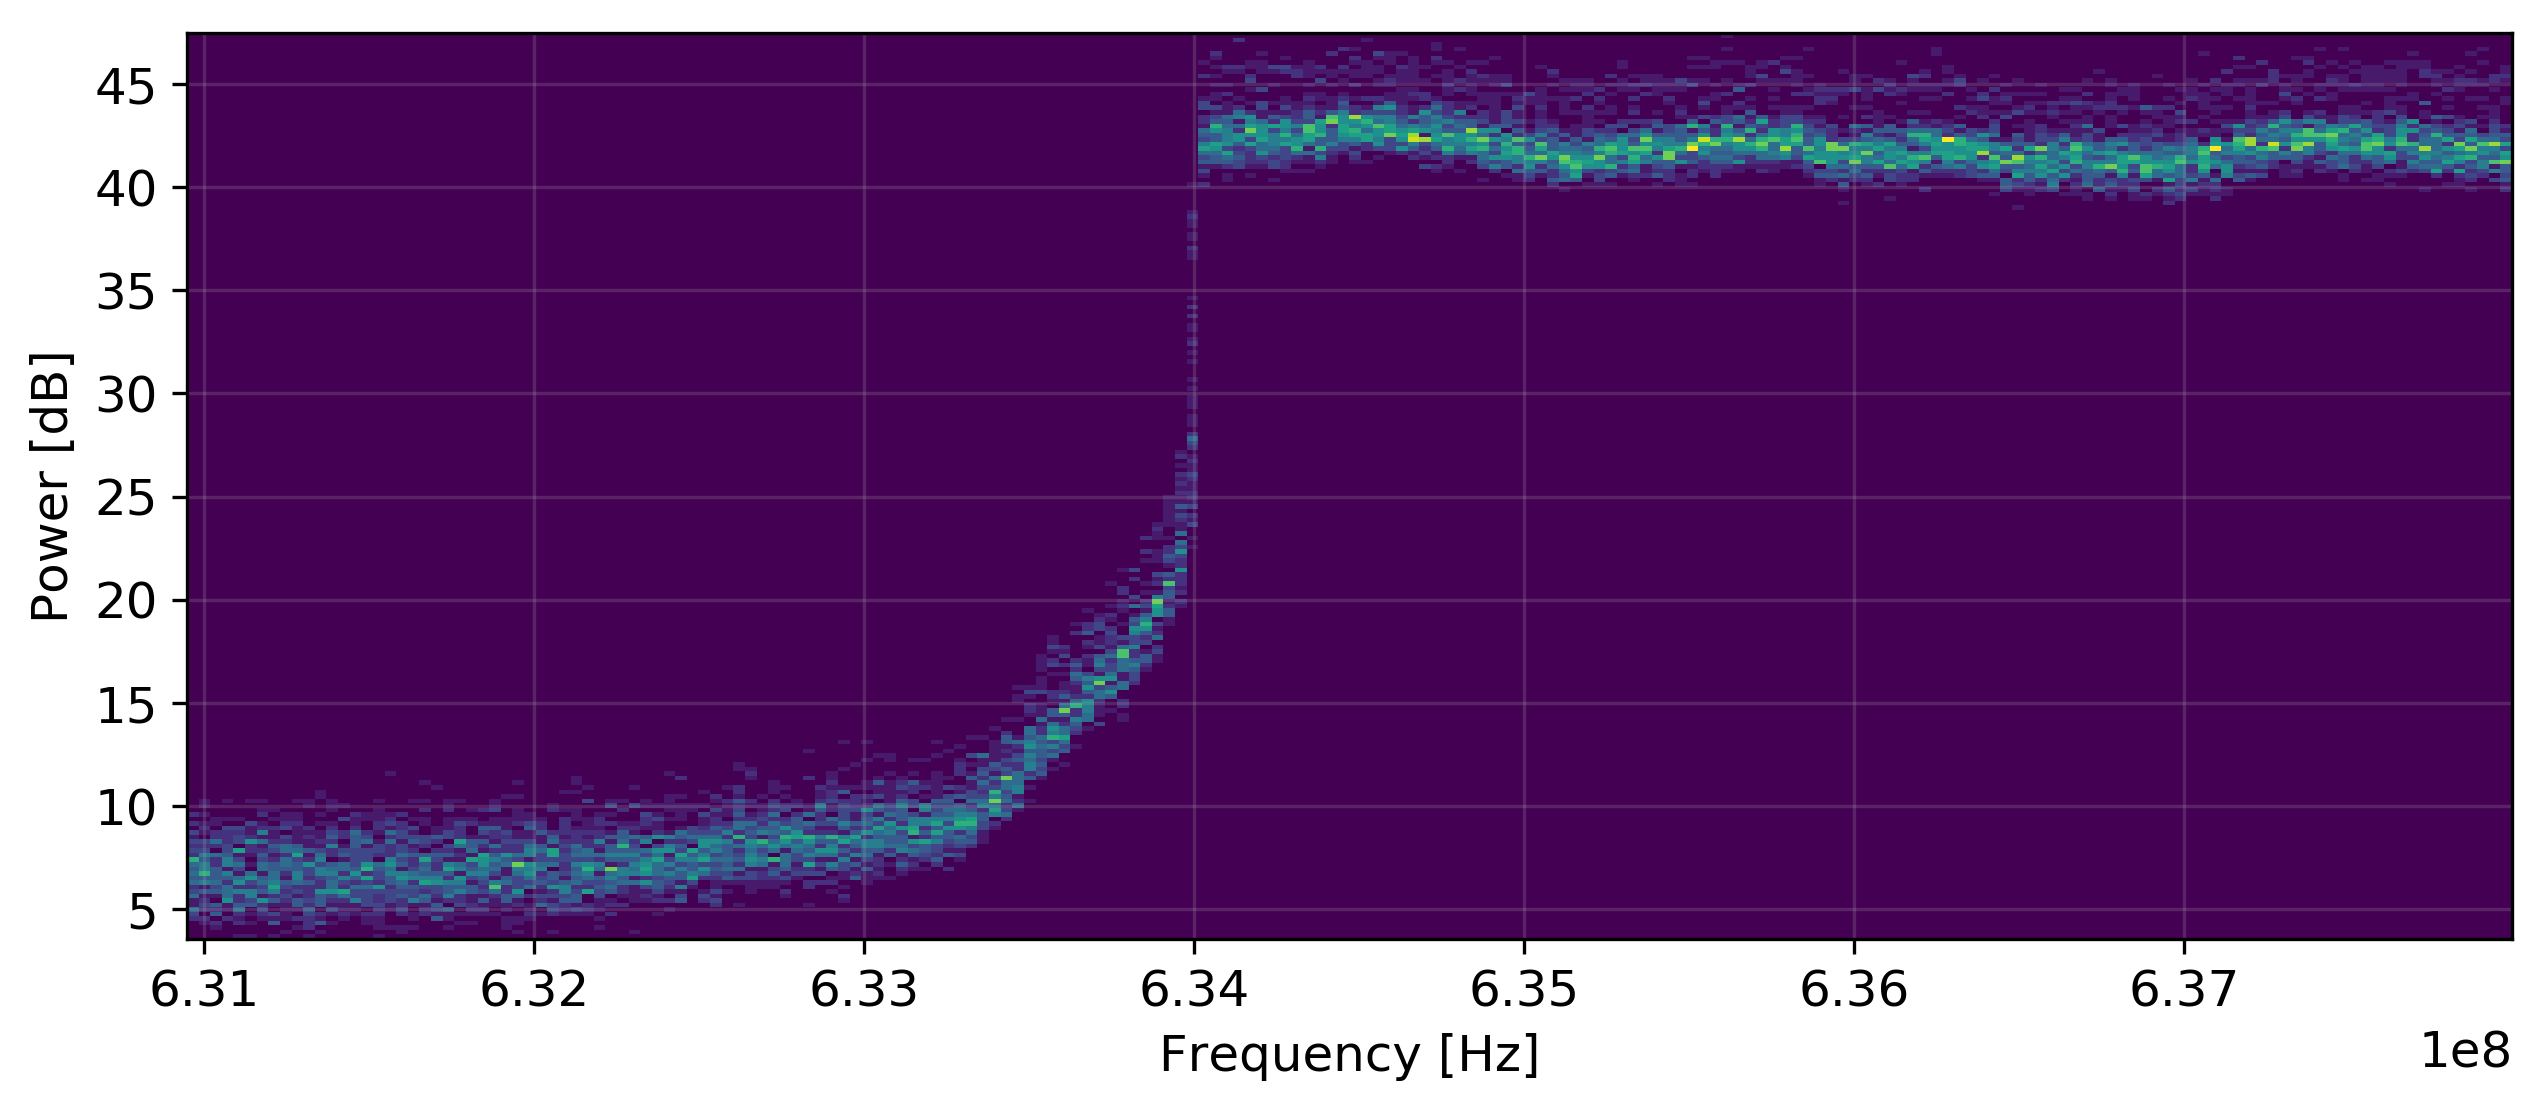
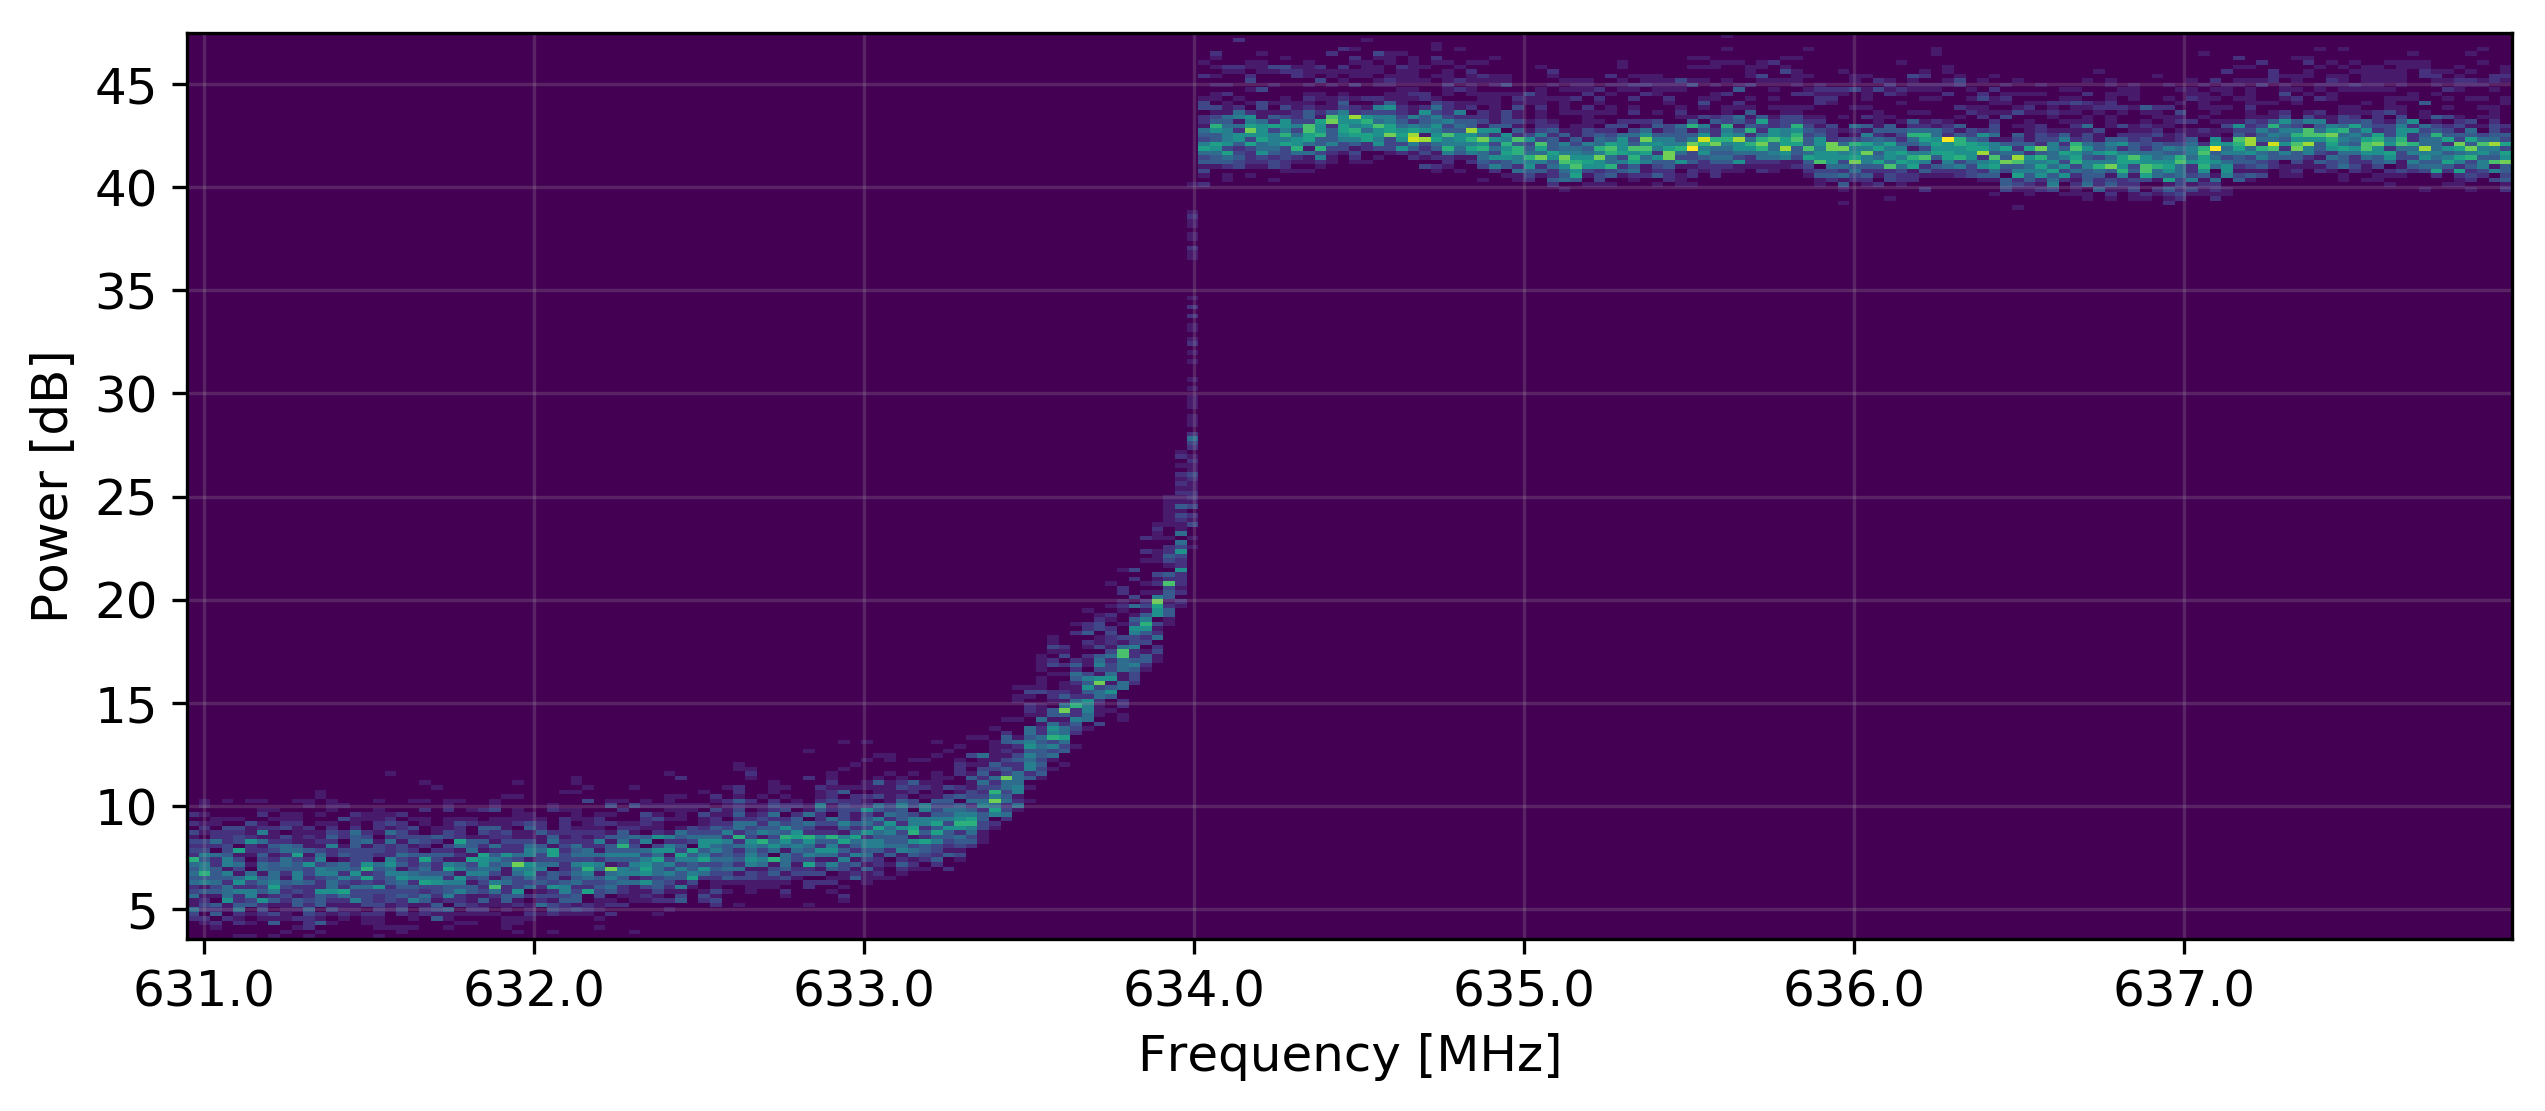
chore: worite-good, hemmingway. add MHz to figures

diff --git a/doc/main.md b/doc/main.md
@@ -14,7 +14,9 @@ applications in modern communication systems.
 Spectrum monitoring, in a general sense, involves sensing and interpreting the frequency content
 of a band of the radio spectrum over time.
 The complexity of monitoring systems can vary from simple running time-averages
-of a sensed spectrum to more complex systems that can, for example, decode signaling protocols, store spectrum usage history, and analyze data either in real-time or in post-processing in order to provide more information.\cite{gronroos16}\cite{ni-white-15}
+of a sensed spectrum to more complex systems that can, for example, decode signaling protocols,
+store spectrum usage history, and analyze data either in real-time or in post-processing
+to provide more information.\cite{gronroos16}\cite{ni-white-15}
 
 The bulk of work in this thesis is the implementation of a radio spectrum monitoring system
 consisting of a commercial software-defined radio peripheral and a Linux laptop with
@@ -43,13 +45,13 @@ body that handles spectrum allocation in Finland. FICORA regulates the
 use of frequencies 9 kHz -- 400 GHz.\cite{ficoraReg15}
 
 The International Telecommunications Union (ITU) is a specialized agency of the United Nations that allocates
-radio spectrum and satellite orbits. The ITU is involved in coordinating with national regulatory authorities
+radio spectrum and satellite orbits. The ITU coordinates with national regulatory authorities
 to maintain cross-compatible radio regulations globally.
 
 Advances in radio technology allow the implementation of flexible
 radio systems that reduce underutilization of available RF spectrum\cite{gronroos16}. Transmission
-frequencies, bandwidth, and modulation schemes can be changed rapidly
-in a dynamic way thanks to increased flexibility, in order to accommodate for changes in the available
+frequencies, bandwidth, and modulation schemes can be changed
+in a dynamic way thanks to increased flexibility and accommodate for changes in the available
 spectrum.  Spectrum monitoring is a key technology when considering the
 use of dynamic spectrum access.\cite{zennaro12}
 
@@ -58,7 +60,15 @@ use of dynamic spectrum access.\cite{zennaro12}
 
 ## Applications of Spectrum Monitoring
 
-Spectrum monitoring, or spectrum occupancy measurement, is used to study how effectively a frequency band of interest is used in some geographical area. The level of utilization is determined based on the proportion of time when the frequencies are in use versus them being unoccupied. Information obtained from spectrum monitoring helps regulatory authorities assess the effectiveness their current allocations, and plan for future use of the radio spectrum.  Spectrum monitoring is also used to improve the accuracy of spectrum usage databases in order to facilitate sharing of spectrum.\cite{hoyhtya16}
+Spectrum monitoring, or spectrum occupancy measurement, is used to study how
+effectively a frequency band of interest is used in some geographical area.
+The level of use is determined based on the proportion of time when the
+frequencies are in use versus them being unoccupied. Information obtained from
+spectrum monitoring helps regulatory authorities assess the effectiveness their
+current allocations, and plan for future use of the radio spectrum.
+Spectrum monitoring is also used to improve the accuracy of spectrum usage
+databases to facilitate sharing of spectrum.\cite{hoyhtya16}
+
 
 
 
@@ -73,7 +83,7 @@ Opportunistic spectrum access refers to techniques that make it possible for rad
 
 Licensed shared access (LSA) is an approach to radio spectrum regulation
 that allows further use of spectrum that is already allocated to
-an incumbent user.  LSA is based on a framework where the incumbent user, one or several LSA licensees -- i.e new users,
+an incumbent user.  LSA is based on a framework where the incumbent user, one or more LSA licensees -- i.e new users,
 and the spectrum regulation authority collectively agree on a sharing scheme. The sharing
 scheme in LSA is controlled in a way that both the incumbent user, as
 well as the licensee can expect predictable quality-of-service and are
@@ -92,7 +102,7 @@ a system such as LSA.
 
 <!-- ### Energy Detection -->
 
-<!--  subramanima15 has many references to sensing studies --> <!-- "using
+<!--  subramanima15 has references to sensing studies --> <!-- "using
 the energy detection method with fixed-threshold [9]"\cite{subramaniam15}
 -->
 
@@ -127,7 +137,7 @@ radio-based communication systems, differences in man-made noise depending on th
 time of day or events on longer time spans such as new buildings being constructed
 in an urban area.\cite{subramaniam15}\cite{gronroos16}
 
-In order to maintain long-lasting spectrum occupancy measurements or a viable network of spectrum monitoring sensors, it is important that
+To maintain long-lasting spectrum occupancy measurements or a viable network of spectrum monitoring sensors, it is important that
 monitoring nodes can operate without the intervention of a technician.
 Needing to constantly update detection thresholds on monitoring sensors
 is time-consuming and error prone. Using more intelligent decision-making
@@ -136,7 +146,15 @@ campaign.\cite{gronroos16}
 
 
 Sensing applications can be either generalized or designed for
-a specific type of transmission, in order to monitor the use of particular of a radio system. Energy detection, autocorrelation, and correlation distance based system are generalized techniques for determining occupancy. A system-specific monitoring application may be able to provide more useful information about the use of a spectral band compared to a general solution by demodulating and decoding signals in order to determine eg. how many timeslots are used in a time-domain multiplexed communications network. Having free timeslots available means, that while the band is technically occupied, there is still additional throughput capacity available in the network.\cite{hoyhtya16}
+a specific transmission type, to monitor the use of particular of a
+radio system. Energy detection, autocorrelation, and correlation distance based
+system are generalized techniques for determining occupancy. A system-specific
+monitoring application may be able to provide more useful information about the
+use of a spectral band compared to a general solution by demodulating and decoding
+signals to determine eg. the number of timeslots used in a time-domain
+multiplexed communications network. Having free timeslots available means,
+that while the band is technically occupied, there is still throughput
+capacity available in the network.\cite{hoyhtya16}
 
 
 
@@ -149,10 +167,12 @@ of the radio spectrum which is then either processed in real-time, or it can be
 written to non-volatile storage and processing of data can happen at a later stage.
 
 In an ideal SDR solution, the antenna would be essentially connected
-directly to the ADC. However, in actual applications, it is usually
-necessary to implement an RF front-end. Typical parts of such a
+directly to the ADC. In actual applications, it is
+necessary to use an RF front-end. Typical parts of such a
 front-end include a band select filter, a low-noise amplifier (LNA),
-and a mixing stage. The signal conditioning done by the front-end is needed to shift the wanted signals to lower frequencies so that they are within the maximum bandwidth limit of the ADC.\cite{raman15}
+and a mixing stage. The signal conditioning done by the front-end is needed to
+shift the wanted signals to lower frequencies so that they are within the
+bandwidth limit of the ADC.\cite{raman15}
 
 
 \clearpage
@@ -170,7 +190,7 @@ visualization, and controlling the USRP.
 ## The Universal Software Radio Peripheral
 
 The USRP is a platform that is designed for research applications,
-and it's evident based on earlier research publications
+and it is evident based on earlier research publications
 that is suitable for spectrum sensing applications.\cite{ni-white-15}\cite{angrisani16}
 
 The majority of practical work in this thesis was done using a USRP-2932.
@@ -225,7 +245,8 @@ comma separated tabular data in .csv files. This makes it easy to import the dat
 a large variety of applications for post-processing.
 
 Alternatively, the data can be stored in a more compact way using python's native
-pickle storage. This is in order to collect data over long periods of time.
+pickle storage. This is in order to collect data over long periods of time
+without being constrained as much by storage space limitations.
 
 
 <!--  CAN IT, THOUGH? -->
@@ -239,7 +260,7 @@ resolution.
 
 The USRP is able to stream complex samples over its Gigabit Ethernet interface
 at rates of up to 50 MSPS at an 8-bit resolution and 25 MSPS at a 16-bit resolution.
-The resolution of the 16-bit samples is 14-bit in practice, which is the maximum accuracy of the ADCs used for sample acquisition.\cite{ettusN210}
+The resolution of the 16-bit samples is 14-bit in practice, which is the accuracy of the ADCs used for sample acquisition.\cite{ettusN210}
 
 An 8-bit sample refers to a sampling scheme where 8 bits are used to each of the
 I and Q sample, making the I/Q sample pair a total of 16 bits is size. Similarly an
@@ -255,10 +276,10 @@ In fact, passband width is often referred to as the sample rate.
 ## CIC roll-off
 
 Cascaded integrator-comb filters, CIC filters for short, are a class of hardware-efficient
-finite response filters that can be used for decimation and interpolation of a signal.\cite{donadio2000}
+finite response filters that are used for decimation and interpolation of a signal.\cite{donadio2000}
 
 The USRP's integrated FPGA processes samples at 100 MSPS from the antenna ADC.
-The samples are downsampled to a lower sample rate in order to transfer them
+The samples are downsampled to a lower sample rate to transfer them
 over the Gigabit Ethernet interface to the computer using a CIC filter.
 
 The chosen sample rate has a significant impact on the quality of the scan data.
@@ -276,7 +297,7 @@ The CIC roll-off is at its worst when the ratio is odd.
 
 
 The measurements shown in figure \ref{fig:cic-rolloff} show the manifestation of CIC roll-off
-at two distinct sample rates. The resampling is done from 100 MSPS, therefore
+at two distinct sample rates. The resampling is done from 100 MSPS, making
 the rate ratios are 100  MSPS / 20  MSPS} = 5 (odd) and
 100 MSPS / 25 MSPS = 4 (even)
 
@@ -303,10 +324,10 @@ DC offset artifacts caused by phenomenon unrelated to CIC roll-off.
 The measurements verify what should be there, in theory, is observable in
 practice.
 
-## Maximum Frequency Resolution
+## Frequency Resolution
 
 
-Sample rate and FFT size (bin count) determine the maximum available resolution
+Sample rate and FFT size (bin count) determine the greatest available resolution
 in the frequency domain.
 
 The frequency resolution is given by
@@ -317,17 +338,18 @@ That is to say, by capturing a narrower band of the spectrum, it is possible
 achieve more granular frequency resolution with the same amount of computation.
 
 Increasing the number of bins in an FFT increases the amount of computation required.
-It's possible to save the raw I/Q samples to disk, and compute the large FFTs in a post-processing step where real-time computation is not required. In this case, a likely bottleneck
+It is possible to save the raw I/Q samples to disk, and compute the large FFTs in a post-processing step where real-time computation is not required. In this case, a likely bottleneck
 will be storage space. The lowest sample rate supported by `uhd_rx_cfile` is approximately
 0.2 MPSP, which will produce close to 0.8 MB of data per second when using 16-bit
-sample. 100 MB data per second is produced at the maximum sample rate 25 MSPS.
+samples.
+The maximum sample rate 25 MSPS produces 100 MB data per second.
 
 
 GNURadio and Baudline\cite{baudline-software} both require the FFT sizes to be
 powers of two ($2^n$), due to the algorithms used.
 
-Major factors limiting sample rate are the maximum rate of the SRD peripheral's ADC,
-maximum throughout available for transferring samples the host PC, and the
+Major factors limiting sample rate are the rate of the SRD peripheral's ADC,
+throughout available for transferring samples the host PC, and the
 computational load that has to occur in real-time on the host PC.
 
 ### Frequency Resolution Measurement
@@ -380,10 +402,20 @@ of spectrum usage over time. As the name implies, histograms can be used to disp
 ![The edge of a high-throughput digital signal in without downtime\label{fig:hist-DVB}](img/histogram-DVB.png){ width=100% }
 
 Figure \ref{fig:hist-DVB} shows the spectrum histogram at the low-frequency edge of a Digital Video Broadcast (DVB) signal.
-The histogram shows no data points at the noise floor's level (around  7 dB) above frequencies of the DVB signal's lower edge at  634 MHz, which means the signal was likely to be present 100% of the time. It is not guaranteed that the signal was present at all times, as there is a delay between each time the spectrum is measured, where it is possible for a signal to not be present for a short while and return before the next measurement is made.
-Shortening the delay, therefore increasing the temporal resolution, is foremost a tradeoff in data set size and required computational power.
+The histogram shows no data points at the noise floor's level (around  7 dB) above
+frequencies of the DVB signal's lower edge at  634 MHz, which means the signal
+was likely to be present 100% of the time. It is not guaranteed that the signal
+was present at all times, as there is a delay between each time the spectrum is
+measured, making it possible for a signal to not be present for a short while
+and return before the next measurement is made.
+Shortening the delay, therefore increasing the temporal resolution, is foremost
+a tradeoff in data set size and required computational power.
 
-Increasing the temporal resolution will increase the number of measurements, hence increasing data size. Digitized signal waveform has to be processed on the host PC before completing each measurement. Additional computation power helps with increasing temporal resolution by speeding up the waveform processing.
+Increasing the temporal resolution will increase the number of measurements, hence
+increasing data size. Digitized signal waveform has to be processed on the host
+PC before completing each measurement.
+More computation power helps with increasing temporal resolution by speeding up
+the waveform processing.
 
 
 ![A mobile communications band not in use 100% of the time\label{fig:hist-mobile}](img/histogram-mobile.png){ width=100% }
@@ -392,11 +424,22 @@ Increasing the temporal resolution will increase the number of measurements, hen
 
 
 Figure \ref{fig:hist-mobile} shows a measurement of a band of spectrum used for mobile communication.
-The power distribution shows a clearly visible noise floor within the
+The power distribution shows a visible noise floor within the
 allocated frequency band, which indicates that the frequencies are not
-constantly in use and there are periods of time where no signals are present. A running time-average of the spectrum, which typical in traditional spectrum analyzers, does not clearly show the partial absence of signals seen in this example. The intermittent use of the band shows up as lower average power, but the band still seems constantly occupied over time.
+constantly in use and there are periods of time where no signals are present.
 Figure \ref{fig:avg-mobile} shows the same spectrum measurement represented as a time-average plot
 of the power.
+The partial absence of signals in this example is not clearly visible in the type of running time-average typically
+found in traditional spectum analyzers. The intermittent use of the band shows up as lower average power, but the band still
+seems constantly occupied over time.
+
+
+
+
+
+
+
+
 
 ![225 MHz span of spectum stiched from multiple measurements \label{fig:hist-long}](img/histogram-long.png){ width=100% }
 
@@ -483,14 +526,14 @@ using DSP after the fact.
 
 
 The initial goal of the work done for this thesis was to develop a radio spectrum monitoring system using a National Instruments USRP.
-The spectrum monitoring system that was implemented was tested
-and implements the features it was intended to. Much of the benefit
+The implemented spectrum monitoring system was tested
+and implements the intended features. Much of the benefit
 in the work done was not in the implementation itself but in the
 process thereof: in researching available tools, figuring out how
 to integrate them, and learning how software-define radio ecosystems
 work on a lower abstraction level.
 Running into issues and unexpected
-measurement results during the development process prompted several
+measurement results during the development process prompted
 tangential projects into researching what configuration parameter
 or circuit is the root cause behind some phenomenon. Much of that knowledge
 is applicable in other software-defined radio and general RF system
